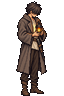
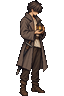
feat: [S-LOOK-PRINCIPLE] セインの体勢・心気の構えを差し替え、体勢・心気の振り抜きの画を取り込む

Changed region(s): [[0.25, 0.0, 0.75, 1.0]]

diff --git a/src/ui/assets/art-manifest.ts b/src/ui/assets/art-manifest.ts
@@ -48,8 +48,10 @@ export const ART_FILES: readonly string[] = [
   "art/standing/hero-coat-act2.png",
   "art/standing/hero-martial-follow.png",
   "art/standing/hero-martial.png",
+  "art/standing/hero-mind-follow.png",
   "art/standing/hero-mind.png",
   "art/standing/hero-stagger.png",
+  "art/standing/hero-stance-follow.png",
   "art/standing/hero-stance.png",
   "art/standing/hero.png",
   "art/standing/ish.png",
